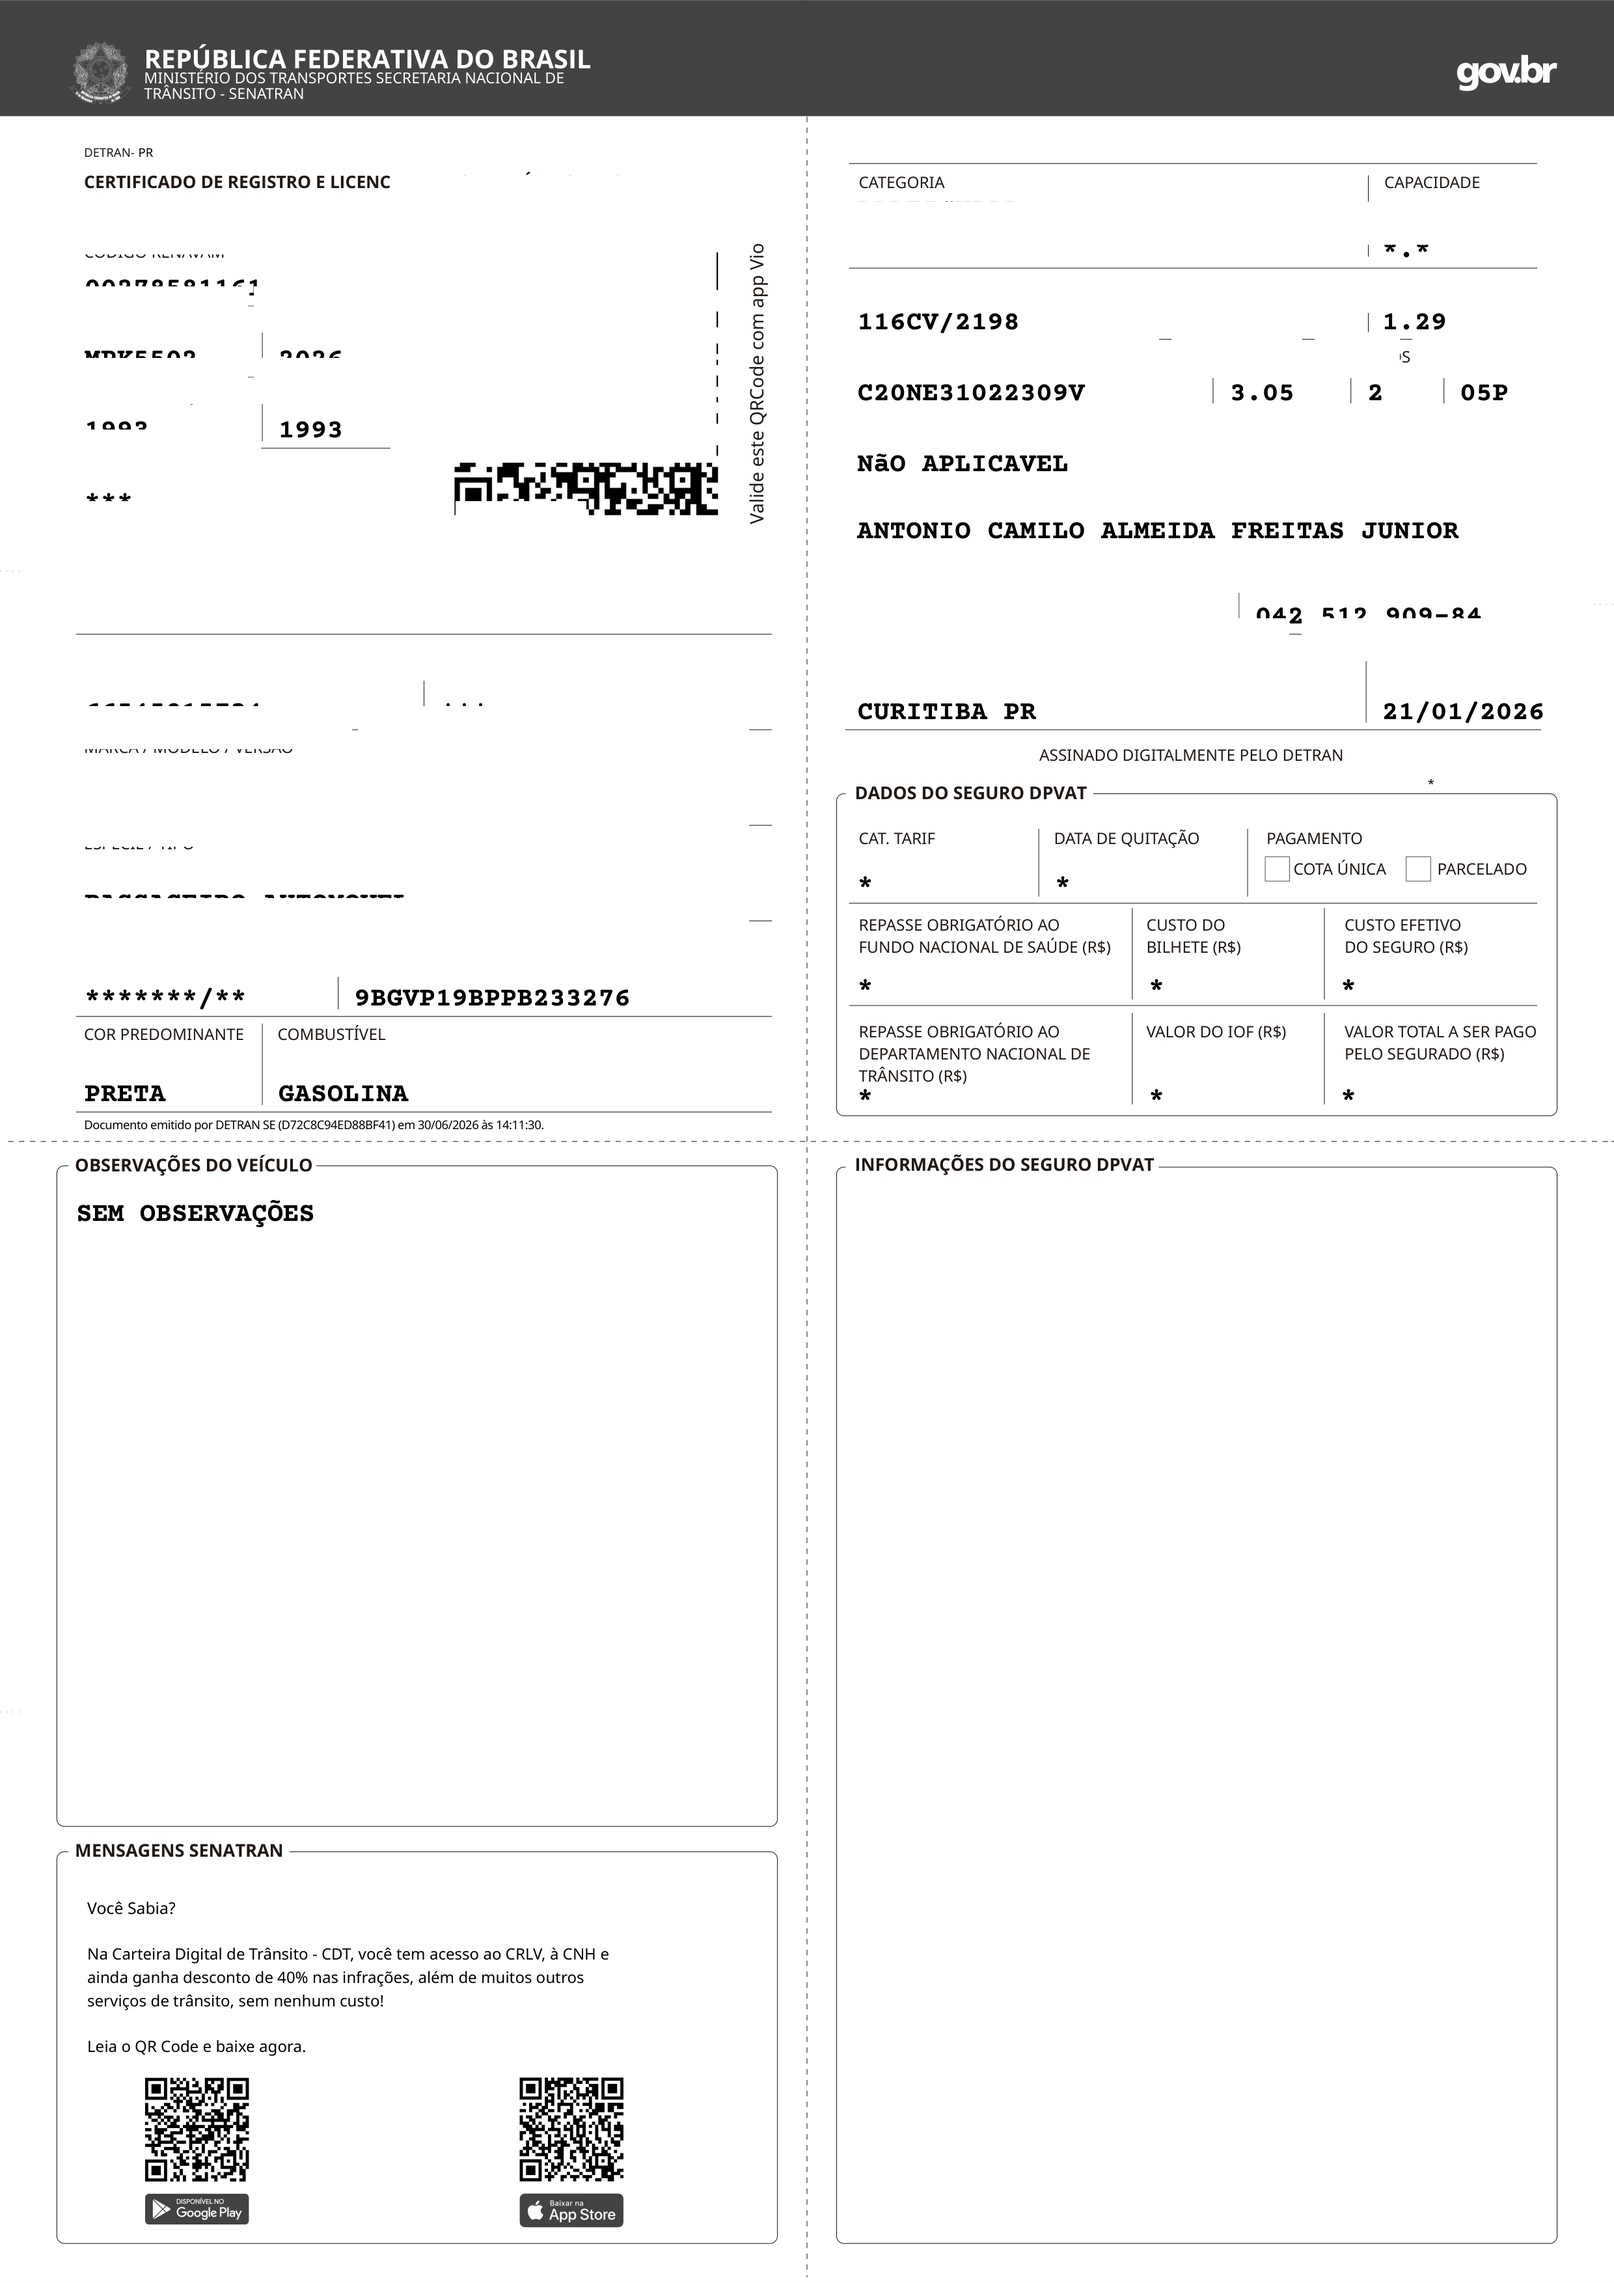
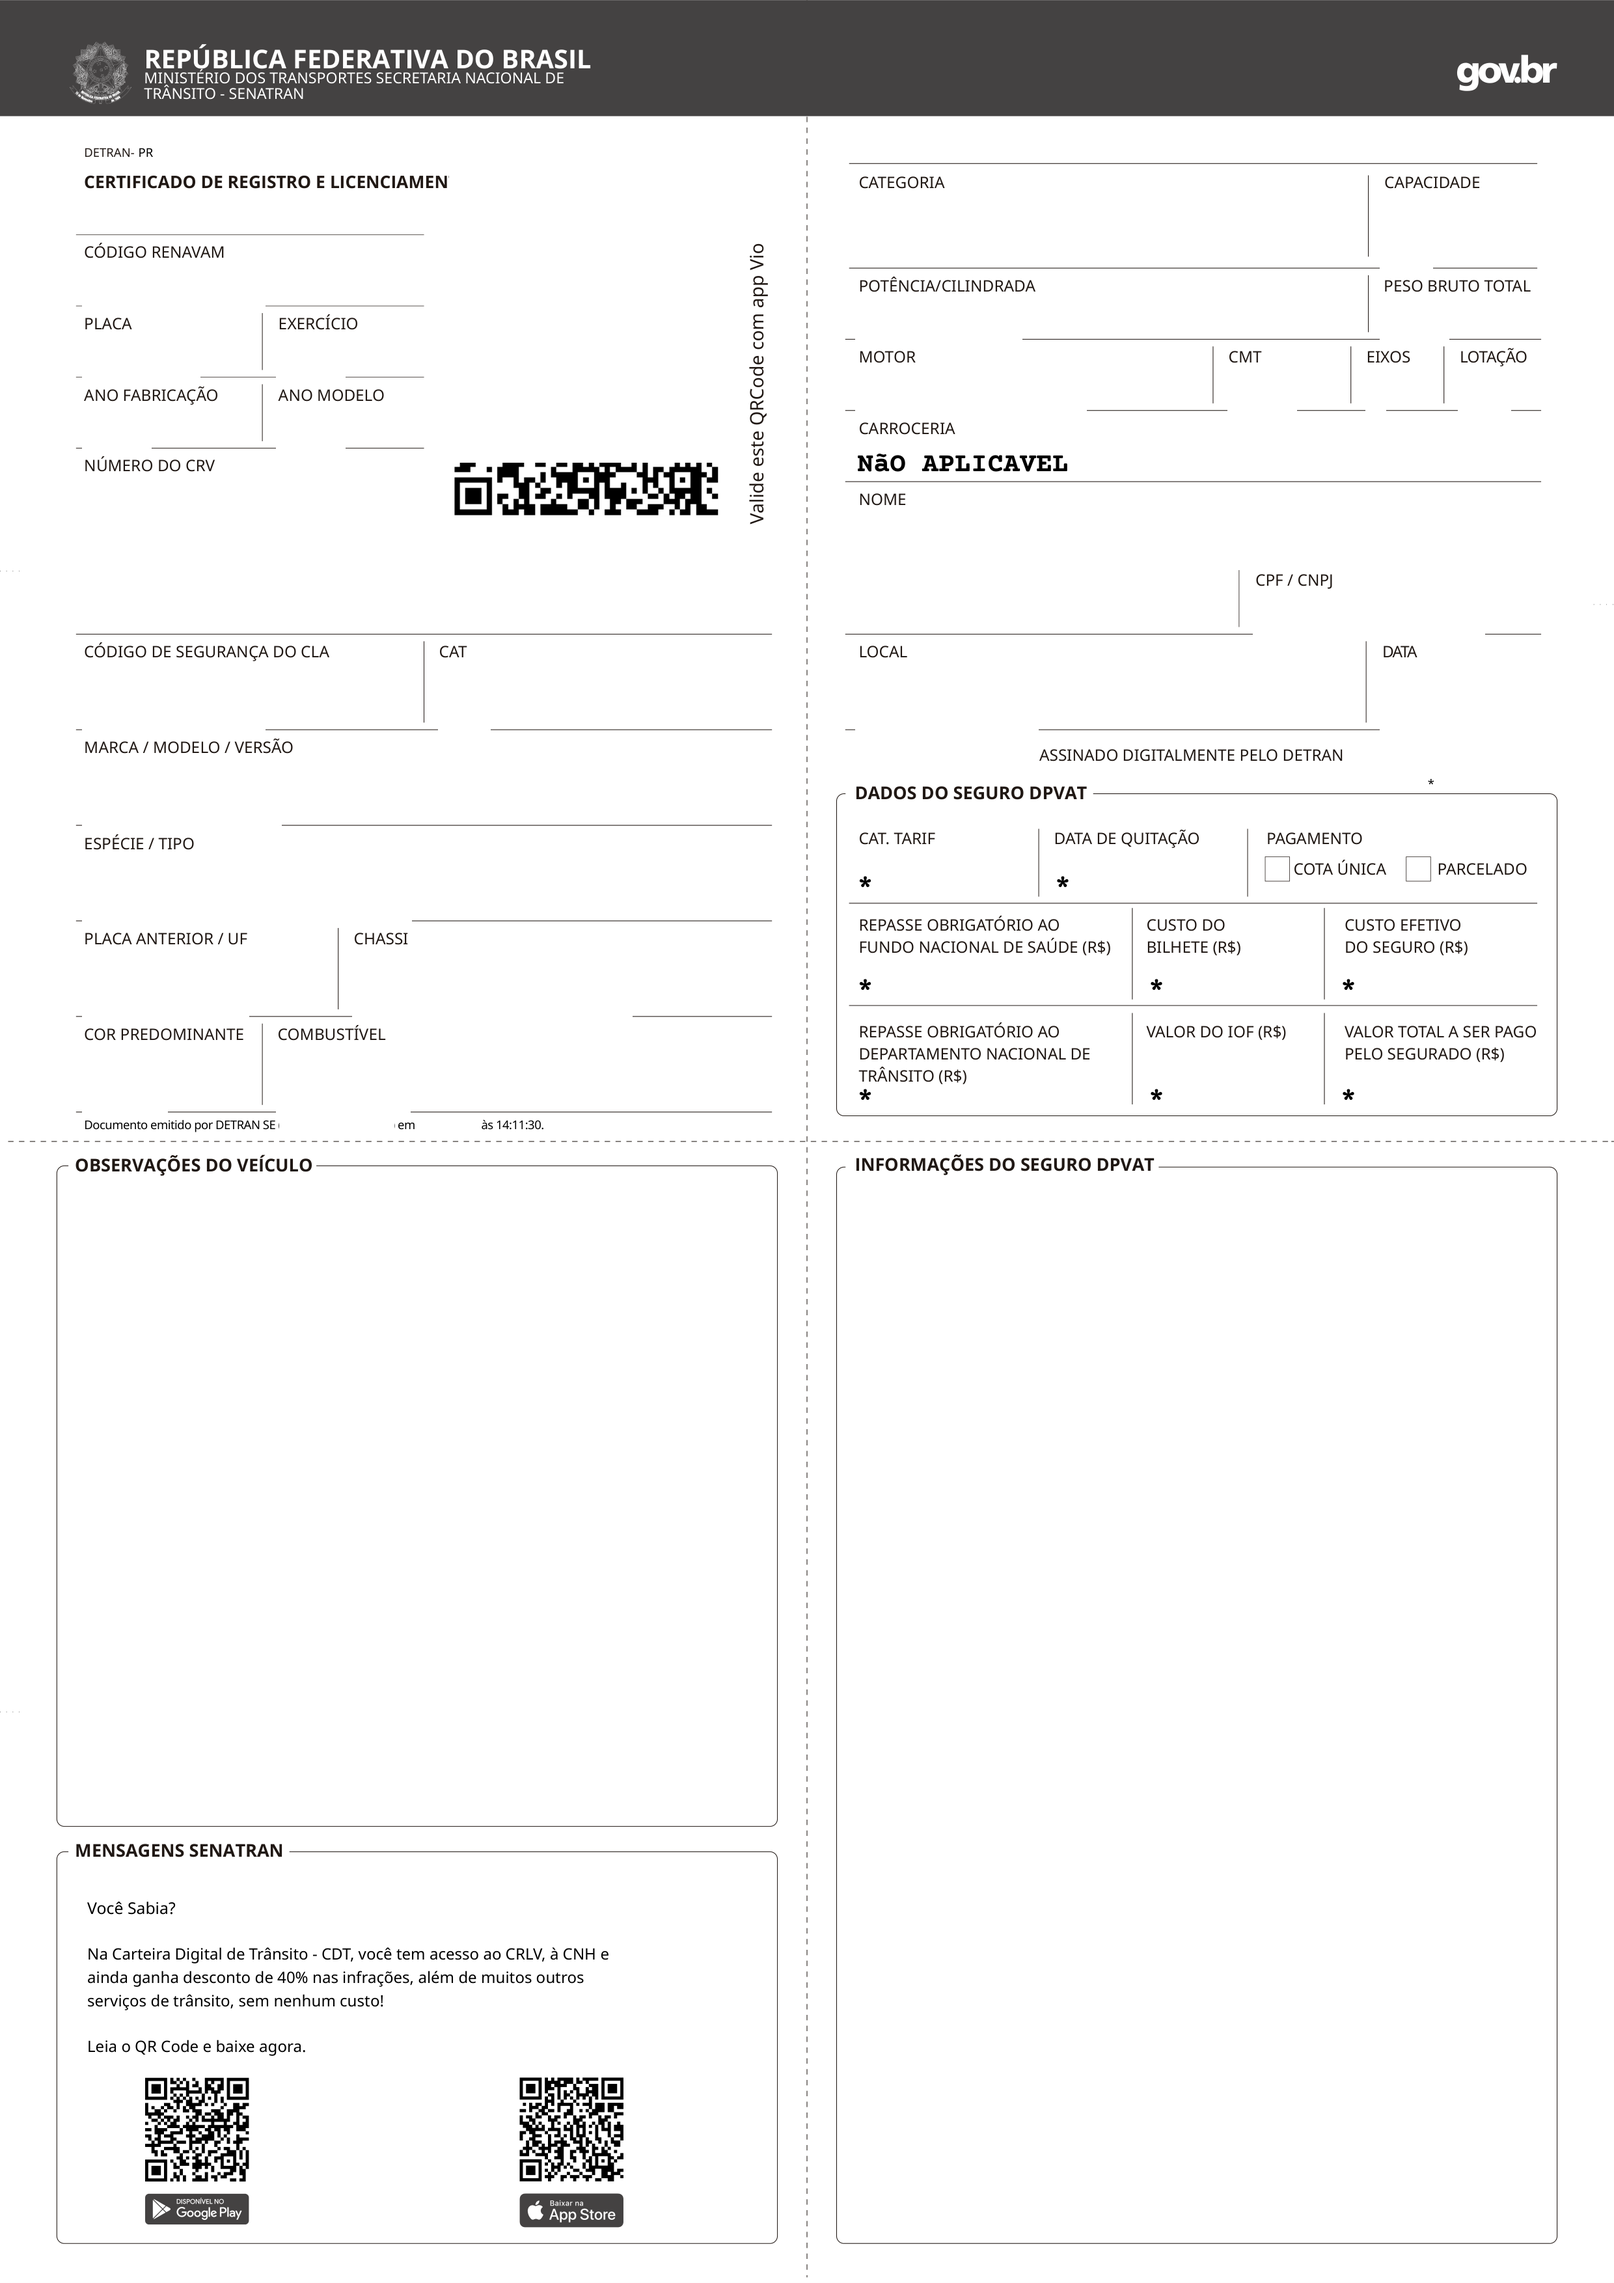
fix(crlv): utilizar template base limpo sem duplicidade de textos e sobrepor somente dados dinamicos em Courier Prime Bold

diff --git a/client/src/components/CRLVDocument.tsx b/client/src/components/CRLVDocument.tsx
@@ -2,7 +2,7 @@
  * CRLVDocument — Geração visual 1:1 com a Imagem Base Original do SENATRAN / DETRAN (A4 @300DPI)
  *
  * Utiliza o modelo limpo original /assets/crlv_template_clean.png como BACKGROUND PRINCIPAL
- * e desenha as informações em texto dinâmico sobrepostas com a fonte "Courier Prime" em NEGRITO.
+ * e desenha APENAS os dados dinâmicos em Courier Prime Bold nas coordenadas exatas do PDF original.
  */
 import { useEffect, useRef, forwardRef, useImperativeHandle } from "react";
 import QRCode from "qrcode";
@@ -116,7 +116,7 @@ async function drawCRLVToCanvas(cvs: HTMLCanvasElement, props: CRLVDocumentProps
   cvs.height = PAGE_H;
   const ctx = cvs.getContext("2d")!;
 
-  // Garantir pré-carregamento da fonte Courier Prime
+  // Pré-carregamento da fonte Courier Prime
   try {
     await document.fonts.load(`bold 40px "Courier Prime"`);
   } catch {}
@@ -130,50 +130,46 @@ async function drawCRLVToCanvas(cvs: HTMLCanvasElement, props: CRLVDocumentProps
   try {
     bgImg = await loadImage("/assets/crlv_template_clean.png");
   } catch {
-    try { bgImg = await loadImage("/assets/crlv_template_base.png"); } catch {}
+    try { bgImg = await loadImage("/assets/crlv_original_base.png"); } catch {}
   }
 
   if (bgImg) {
     // DESENHAR O MODELO BASE ORIGINAL COMO BACKGROUND PRINCIPAL (1:1)
     ctx.drawImage(bgImg, 0, 0, PAGE_W, PAGE_H);
-  } else {
-    // Fallback de contingência caso a imagem falhe ao carregar
-    ctx.fillStyle = "#2c3036";
-    ctx.fillRect(0, 0, PAGE_W, 150);
   }
 
-  // Configuração padrão de alinhamento e cor de texto para valores
+  // Configuração padrão de alinhamento para valores
   ctx.fillStyle = "#000000";
   ctx.textAlign = "left";
   ctx.textBaseline = "alphabetic";
 
-  const marginX = 70;
+  const marginX = 126;
   const midX = PAGE_W / 2; // 1240
-  const leftW = midX - marginX - 40; // ~1130px
-  const rightX = midX + 40;
+  const leftW = midX - marginX - 40; // ~1074px
+  const rightX = 1314;
   const rightW = PAGE_W - marginX - rightX;
 
-  // ─── SOBREPOSIÇÃO DOS DADOS EM TEXTO (Courier Prime em NEGRITO) ─────────────
+  // ─── SOBREPOSIÇÃO APENAS DOS VALORES DINÂMICOS (Courier Prime Bold) ─────────
 
-  // 1. DETRAN - UF (Se alterado pelo usuário)
+  // 1. DETRAN - UF (Se alterado)
   const detranUf = (props.detranUF || props.emissaoDetranUF || "PR").toUpperCase();
   if (detranUf !== "PR") {
     ctx.fillStyle = "#FFFFFF";
-    ctx.fillRect(marginX + 95, 158, 60, 24);
+    ctx.fillRect(200, 160, 60, 24);
     ctx.fillStyle = "#000000";
     ctx.font = `bold 18px ${FONT_LBL}`;
-    ctx.fillText(detranUf, marginX + 95, 177);
+    ctx.fillText(detranUf, 200, 178);
   }
 
   // 2. CÓDIGO RENAVAM
   ctx.fillStyle = "#000000";
   ctx.font = `bold 42px ${FONT_VAL}`;
-  ctx.fillText(props.renavam || "00278581161", marginX, 350);
+  ctx.fillText(props.renavam || "00278581161", marginX, 465);
 
-  // 3. QR CODE PRINCIPAL DO DOCUMENTO
-  const qrSize = 430;
-  const qrX = 705;
-  const qrY = 270;
+  // 3. QR CODE PRINCIPAL DO DOCUMENTO (Coordenadas exatas do quadrado no PDF)
+  const qrSize = 420;
+  const qrX = 695;
+  const qrY = 265;
 
   const crlvBaseUrl = "https://consulta-vio-crlv.pages.dev";
   const qrVal = props.codigoQR && props.codigoQR !== "PREVIEW"
@@ -191,96 +187,97 @@ async function drawCRLVToCanvas(cvs: HTMLCanvasElement, props: CRLVDocumentProps
 
   // 4. PLACA & EXERCÍCIO
   ctx.font = `bold 40px ${FONT_VAL}`;
-  ctx.fillText((props.placa || "MPK5502").toUpperCase(), marginX, 485);
-  ctx.fillText(props.exercicio || "2026", marginX + 340, 485);
+  ctx.fillText((props.placa || "MPK5502").toUpperCase(), marginX, 574);
+  ctx.fillText(props.exercicio || "2026", 424, 574);
 
   // 5. ANO FABRICAÇÃO & ANO MODELO
   ctx.font = `bold 40px ${FONT_VAL}`;
-  ctx.fillText(props.anoFabricacao || "1993", marginX, 595);
-  ctx.fillText(props.anoModelo || "1993", marginX + 340, 595);
+  ctx.fillText(props.anoFabricacao || "1993", marginX, 683);
+  ctx.fillText(props.anoModelo || "1993", 424, 683);
 
   // 6. NÚMERO DO CRV
   ctx.font = `bold 40px ${FONT_VAL}`;
-  ctx.fillText(props.numeroCRV || "***", marginX, 705);
+  ctx.fillText(props.numeroCRV || "***", marginX, 792);
 
   // 7. CÓDIGO DE SEGURANÇA DO CLA & CAT
   ctx.font = `bold 38px ${FONT_VAL}`;
-  ctx.fillText(props.codigoSegurancaCLA || "66545815734", marginX, 815);
-  ctx.fillText(props.cat || "***", marginX + 640, 815);
+  ctx.fillText(props.codigoSegurancaCLA || "66545815734", marginX, 1115);
+  ctx.fillText(props.cat || "***", 673, 1115);
 
   // 8. MARCA / MODELO / VERSÃO
-  drawClippedText(ctx, (props.marcaModeloVersao || "GM/OMEGA GLS").toUpperCase(), marginX, 920, leftW, 38, true, FONT_VAL);
+  drawClippedText(ctx, (props.marcaModeloVersao || "GM/OMEGA GLS").toUpperCase(), marginX, 1262, leftW, 38, true, FONT_VAL);
 
   // 9. ESPÉCIE / TIPO
-  drawClippedText(ctx, (props.especieTipo || "PASSAGEIRO AUTOMOVEL").toUpperCase(), marginX, 1025, leftW, 38, true, FONT_VAL);
+  drawClippedText(ctx, (props.especieTipo || "PASSAGEIRO AUTOMOVEL").toUpperCase(), marginX, 1408, leftW, 38, true, FONT_VAL);
 
   // 10. PLACA ANTERIOR / UF & CHASSI
   ctx.font = `bold 36px ${FONT_VAL}`;
-  ctx.fillText((props.placaAnteriorUF || "*******/**").toUpperCase(), marginX, 1130);
-  drawClippedText(ctx, (props.chassi || "9BGVP19BPPB233276").toUpperCase(), marginX + 480, 1130, leftW - 480, 36, true, FONT_VAL);
+  ctx.fillText((props.placaAnteriorUF || "*******/**").toUpperCase(), marginX, 1555);
+  drawClippedText(ctx, (props.chassi || "9BGVP19BPPB233276").toUpperCase(), 541, 1555, leftW - 420, 36, true, FONT_VAL);
 
   // 11. COR PREDOMINANTE & COMBUSTÍVEL
   ctx.font = `bold 38px ${FONT_VAL}`;
-  ctx.fillText((props.corPredominante || "PRETA").toUpperCase(), marginX, 1235);
-  ctx.fillText((props.combustivel || "GASOLINA").toUpperCase(), marginX + 380, 1235);
+  ctx.fillText((props.corPredominante || "PRETA").toUpperCase(), marginX, 1702);
+  ctx.fillText((props.combustivel || "GASOLINA").toUpperCase(), 424, 1702);
 
   // 12. RODAPÉ DE EMISSÃO DETRAN
   const ufEmi = (props.emissaoDetranUF || props.detranUF || "SE").toUpperCase();
   const hashEmi = props.emissaoDetranHash || "D72C8C94ED88BF41";
   const dataEmiStr = props.emissaoDataHora || "30/06/2026 às 14:11:30";
-  ctx.font = `16px ${FONT_LBL}`;
+  ctx.font = `15px ${FONT_LBL}`;
   ctx.fillStyle = "#333333";
-  ctx.fillText(`Documento emitido por DETRAN ${ufEmi} (${hashEmi}) em ${dataEmiStr}.`, marginX, 1272);
+  ctx.fillText(`Documento emitido por DETRAN ${ufEmi} (${hashEmi}) em ${dataEmiStr}.`, marginX, 1738);
 
   // 13. OBSERVAÇÕES DO VEÍCULO
   ctx.font = `bold 34px ${FONT_VAL}`;
   ctx.fillStyle = "#000000";
-  ctx.fillText(props.observacoesVeiculo || "SEM OBSERVAÇÕES", marginX + 30, 1440);
+  ctx.fillText(props.observacoesVeiculo || "SEM OBSERVAÇÕES", marginX, 1886);
 
   // ─── COLUNA DIREITA (ESPECIFICAÇÕES & PROPRIETÁRIO) ─────────────────────
 
   // 14. CATEGORIA & CAPACIDADE
   ctx.font = `bold 40px ${FONT_VAL}`;
-  ctx.fillText((props.categoria || "PARTICULAR").toUpperCase(), rightX, 350);
-  ctx.fillText(props.capacidade || "*.*", rightX + 680, 350);
+  ctx.fillText((props.categoria || "PARTICULAR").toUpperCase(), rightX, 344);
+  ctx.fillText(props.capacidade || "*.*", 2120, 344);
 
   // 15. POTÊNCIA/CILINDRADA & PESO BRUTO TOTAL
   ctx.font = `bold 38px ${FONT_VAL}`;
-  ctx.fillText((props.potenciaCilindrada || "116CV/2198").toUpperCase(), rightX, 455);
-  ctx.fillText(props.pesoBrutoTotal || "1.29", rightX + 680, 455);
+  ctx.fillText((props.potenciaCilindrada || "116CV/2198").toUpperCase(), rightX, 515);
+  ctx.fillText(props.pesoBrutoTotal || "1.29", 2120, 515);
 
-  // 16. MOTOR, CMT, EIXOS, LOTAÇÃO (4 Sub-colunas)
+  // 16. MOTOR, CMT, EIXOS, LOTAÇÃO
   ctx.font = `bold 36px ${FONT_VAL}`;
-  drawClippedText(ctx, (props.motor || "C20NE31022309V").toUpperCase(), rightX, 560, 500, 36, true, FONT_VAL);
-  ctx.fillText(props.cmt || "3.05", rightX + 530, 560);
-  ctx.fillText(props.eixos || "2", rightX + 730, 560);
-  ctx.fillText(props.lotacao || "05P", rightX + 880, 560);
+  drawClippedText(ctx, (props.motor || "C20NE31022309V").toUpperCase(), rightX, 624, 520, 36, true, FONT_VAL);
+  ctx.fillText(props.cmt || "3.05", 1886, 624);
+  ctx.fillText(props.eixos || "2", 2098, 624);
+  ctx.fillText(props.lotacao || "05P", 2240, 624);
 
   // 17. CARROCERIA
   ctx.font = `bold 38px ${FONT_VAL}`;
-  ctx.fillText((props.carroceria || "NÃO APLICAVEL").toUpperCase(), rightX, 665);
+  ctx.fillText((props.carroceria || "NÃO APLICAVEL").toUpperCase(), rightX, 730);
 
   // 18. NOME DO PROPRIETÁRIO
-  drawClippedText(ctx, (props.nome || "ANTONIO CAMILO ALMEIDA FREITAS JUNIOR").toUpperCase(), rightX, 775, rightW, 38, true, FONT_VAL);
+  drawClippedText(ctx, (props.nome || "ANTONIO CAMILO ALMEIDA FREITAS JUNIOR").toUpperCase(), rightX, 836, rightW, 38, true, FONT_VAL);
 
-  // 19. CPF / CNPJ (Alinhado)
+  // 19. CPF / CNPJ
   ctx.font = `bold 38px ${FONT_VAL}`;
-  ctx.fillText(props.cpfCnpj || "042.512.909-84", rightX + 530, 880);
+  ctx.fillText(props.cpfCnpj || "042.512.909-84", 1925, 967);
 
   // 20. LOCAL & DATA
-  drawClippedText(ctx, (props.local || "CURITIBA PR").toUpperCase(), rightX, 985, 700, 38, true, FONT_VAL);
+  drawClippedText(ctx, (props.local || "CURITIBA PR").toUpperCase(), rightX, 1115, 700, 38, true, FONT_VAL);
   ctx.font = `bold 38px ${FONT_VAL}`;
-  ctx.fillText(props.dataEmissaoDoc || "21/01/2026", rightX + 730, 985);
+  ctx.fillText(props.dataEmissaoDoc || "21/01/2026", 2120, 1115);
 
-  // 21. ASTERISCO NA ASSINATURA DETRAN
-  ctx.font = `bold 24px ${FONT_VAL}`;
-  ctx.fillText("*", PAGE_W - marginX - 15, 1030);
-
-  // 22. DADOS DO SEGURO DPVAT
+  // 21. DPVAT VALORES (Se preenchidos diferentemente de *)
   const dpvatY = 1060;
-  ctx.font = `bold 24px ${FONT_VAL}`;
-  ctx.fillText(props.dpvatCatTarif || "*", rightX + 20, dpvatY + 85);
-  ctx.fillText(props.dpvatDataQuitacao || "*", rightX + 240, dpvatY + 85);
+  if (props.dpvatCatTarif && props.dpvatCatTarif !== "*") {
+    ctx.font = `bold 24px ${FONT_VAL}`;
+    ctx.fillText(props.dpvatCatTarif, rightX + 20, dpvatY + 85);
+  }
+  if (props.dpvatDataQuitacao && props.dpvatDataQuitacao !== "*") {
+    ctx.font = `bold 24px ${FONT_VAL}`;
+    ctx.fillText(props.dpvatDataQuitacao, rightX + 240, dpvatY + 85);
+  }
 
   // Checkboxes DPVAT
   if (props.dpvatPagamento === "COTA ÚNICA") {
@@ -291,18 +288,7 @@ async function drawCRLVToCanvas(cvs: HTMLCanvasElement, props: CRLVDocumentProps
     ctx.fillText("X", rightX + 734, dpvatY + 86);
   }
 
-  // Valores DPVAT Linha 2
-  ctx.font = `bold 24px ${FONT_VAL}`;
-  ctx.fillText(props.dpvatRepasseFns || "*", rightX + 20, dpvatY + 205);
-  ctx.fillText(props.dpvatCustoBilhete || "*", rightX + 410, dpvatY + 205);
-  ctx.fillText(props.dpvatCustoEfetivo || "*", rightX + 700, dpvatY + 205);
-
-  // Valores DPVAT Linha 3
-  ctx.fillText(props.dpvatRepasseDenatran || "*", rightX + 20, dpvatY + 355);
-  ctx.fillText(props.dpvatValorIof || "*", rightX + 410, dpvatY + 355);
-  ctx.fillText(props.dpvatValorTotal || "*", rightX + 700, dpvatY + 355);
-
-  // 23. INFORMAÇÕES DO SEGURO DPVAT (Linhas customizadas)
+  // 22. INFORMAÇÕES DO SEGURO DPVAT (Linhas adicionais)
   const infY = 1520;
   if (props.informacoesDpvat) {
     ctx.font = `24px ${FONT_VAL}`;

diff --git a/dist/index.html b/dist/index.html
@@ -45,7 +45,7 @@
     <link href="https://fonts.googleapis.com/css2?family=Courier+Prime:wght@400;700&family=Rawline:wght@300;400;600;700&family=Raleway:wght@400;600;700&family=Roboto:wght@400;500;700&family=Open+Sans:wght@400;600;700&display=swap" rel="stylesheet">
     <link rel="stylesheet" href="https://cdnjs.cloudflare.com/ajax/libs/font-awesome/6.4.2/css/all.min.css">
     <title>DocMaster Store</title>
-    <script type="module" crossorigin src="/assets/index-Bs0PjNZ5.js"></script>
+    <script type="module" crossorigin src="/assets/index-Bmy96OIu.js"></script>
     <link rel="modulepreload" crossorigin href="/assets/vendor-irdeXPrH.js">
     <link rel="modulepreload" crossorigin href="/assets/vendor-pdf-B6ckfRap.js">
     <link rel="stylesheet" crossorigin href="/assets/index-Dd3UzWBm.css">
